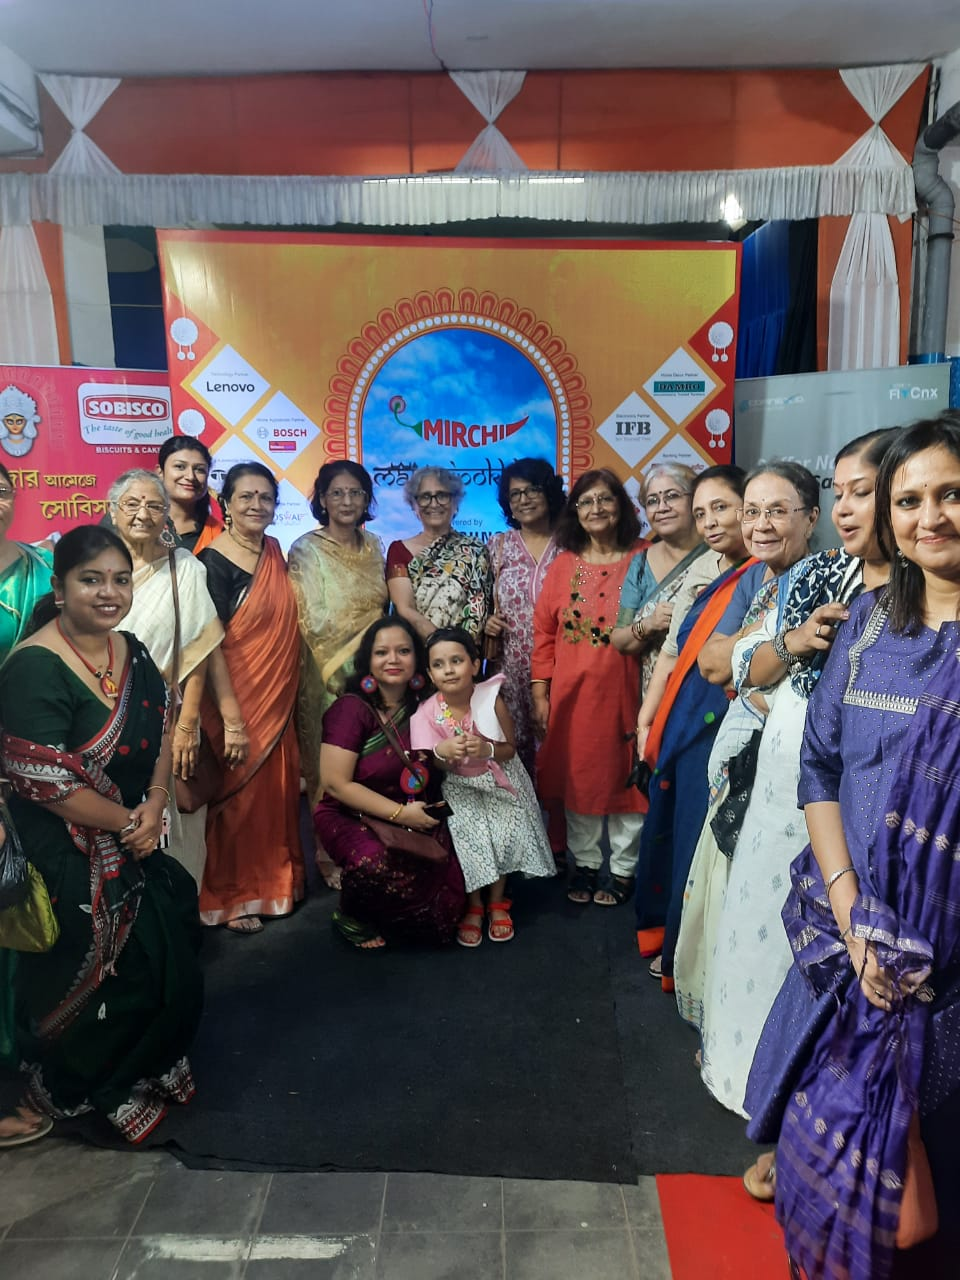
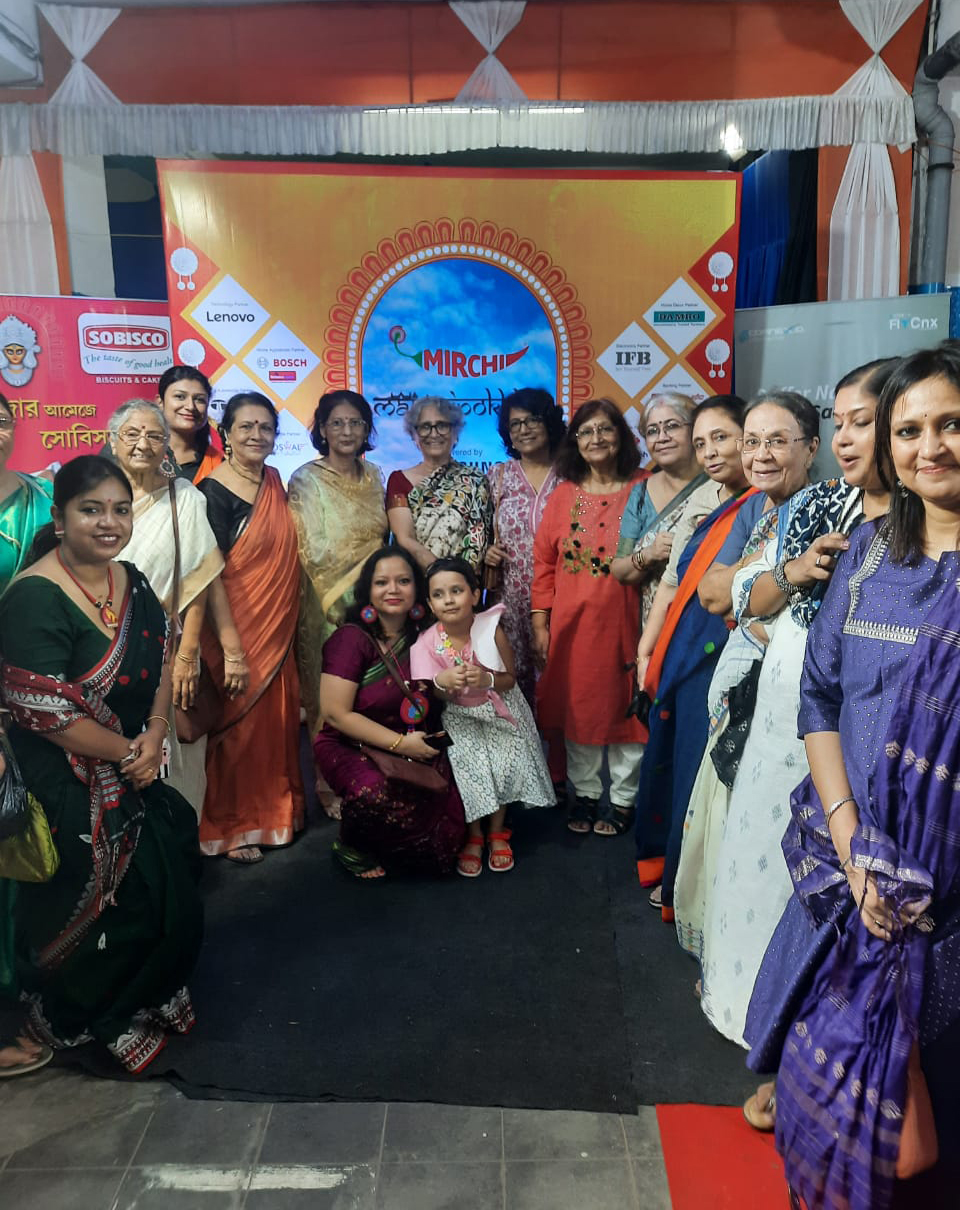
anandamela 2024 added - few more pics

diff --git a/news.md b/news.md
@@ -27,9 +27,13 @@ permalink: /news/
 <img style="border:1px solid black;" src="/images/puja2024/anandamela/anandamela2024-6.jpg"/><br/><br/>
 <img style="border:1px solid black;" src="/images/puja2024/anandamela/anandamela2024-7.jpg"/><br/><br/>
 <img style="border:1px solid black;" src="/images/puja2024/anandamela/anandamela2024-8.jpg"/><br/><br/>
+<img style="border:1px solid black;" src="/images/puja2024/anandamela/anandamela2024-8.jpg"/><br/><br/>
+<img style="border:1px solid black;" src="/images/puja2024/anandamela/anandamela2024-9.jpg"/><br/><br/>
 
 <h3>Radio Mirchi</h3>
 <img style="border:1px solid black;" src="/images/puja2024/anandamela/mirchi2024-1.jpg">
+<img style="border:1px solid black;" src="/images/puja2024/anandamela/mirchi2024-2.jpg">
+
 
 <br/>
 
